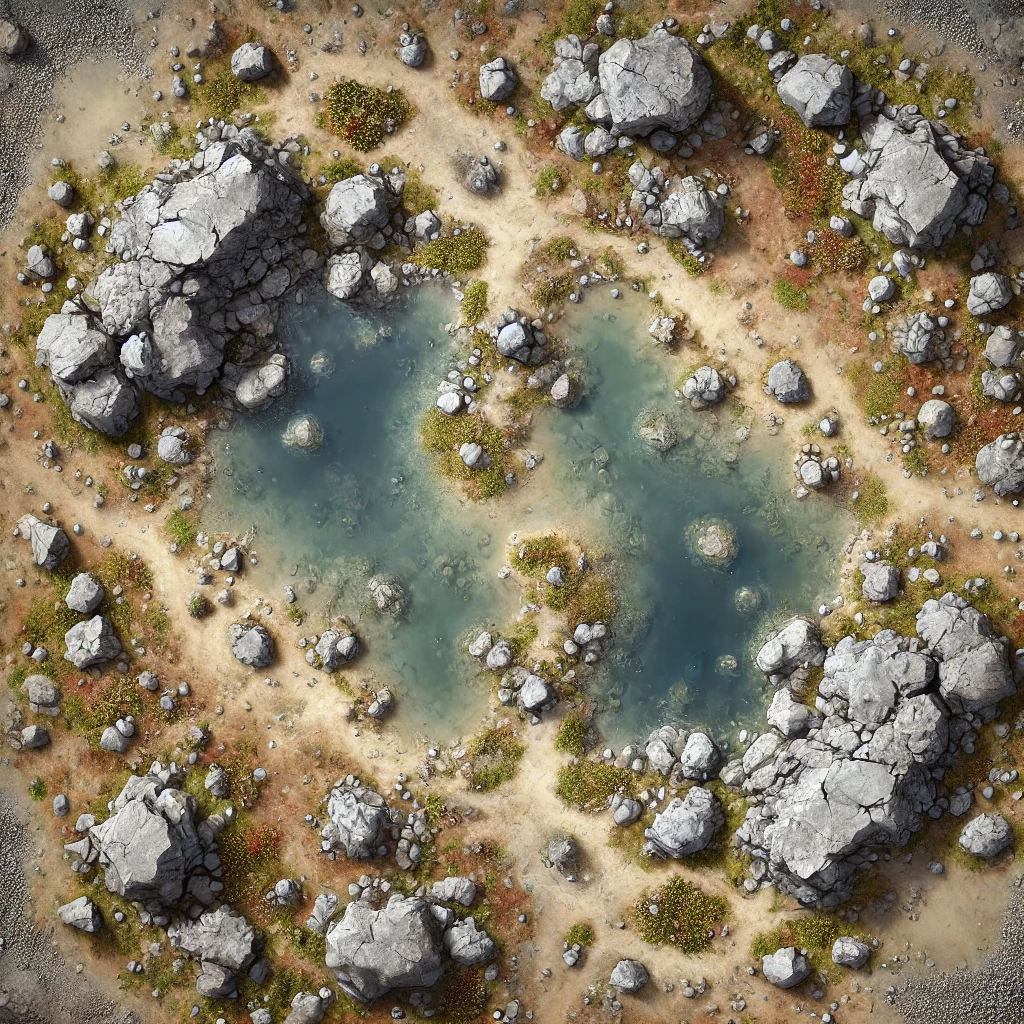
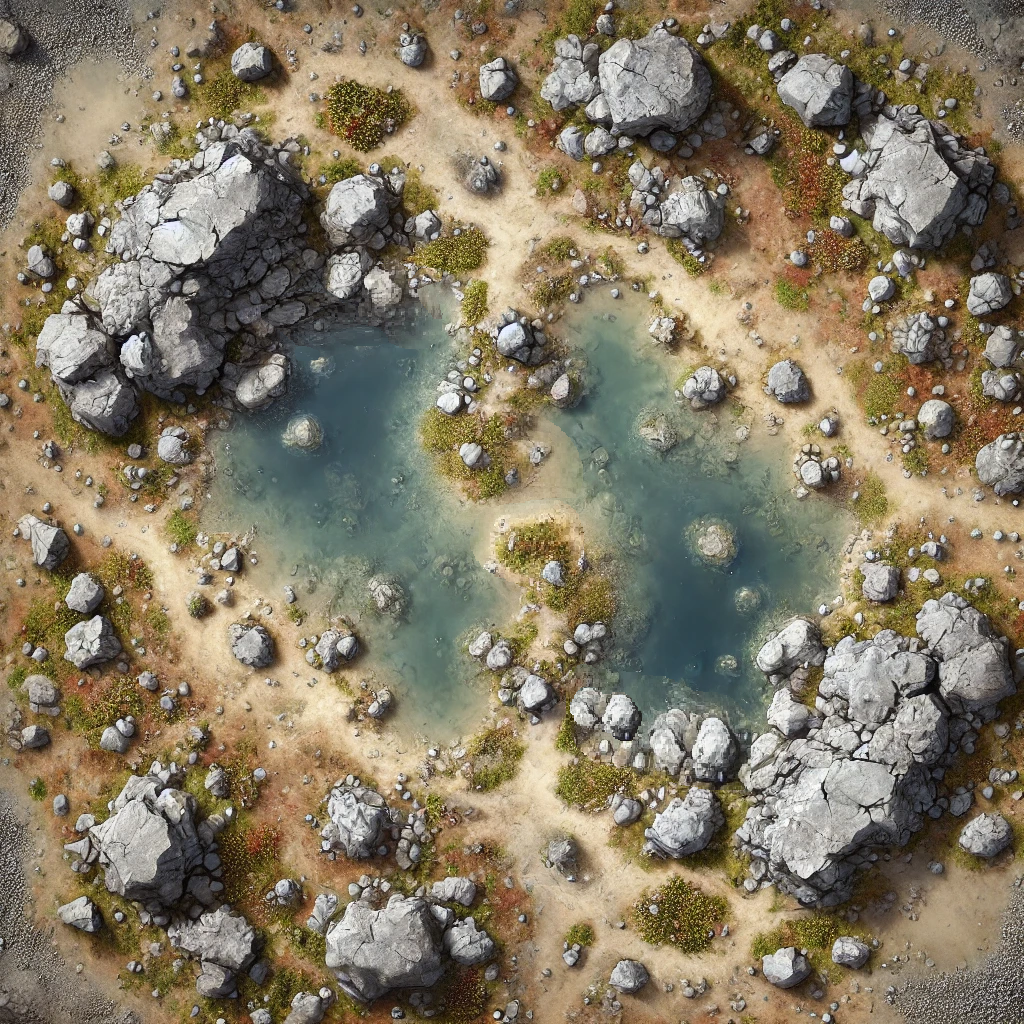
started environment grids for water

Changed region(s): [[0.5312, 0.6562, 0.75, 0.7812], [0.4688, 0.4062, 0.5625, 0.5938], [0.25, 0.25, 0.4375, 0.3438]]

diff --git a/frontend/stratego-game/src/app/stratego-logic/stratego-board.ts b/frontend/stratego-game/src/app/stratego-logic/stratego-board.ts
@@ -24,6 +24,9 @@ export class StrategoBoard {
     public _gameOver: boolean = false;
     private server: WebSocketSubject<any>;
 
+    private environment: (number)[][];
+    public randomSeed: number = 0;
+
     constructor(){
         this.server = webSocket('ws://localhost:3000')
         this.server.subscribe();
@@ -42,6 +45,75 @@ export class StrategoBoard {
             [null, null, null, null, null, null, null, null, null, null, null, null],
         ]
         this._safeSquares = this.findSafeSquares();
+        this.environment = this.getEnvironment();
+    }
+
+    getEnvironment() {
+        // rocky-water-field
+        if (this.randomSeed === 0) {
+            return this.environment = [
+                [0, 0, 0, 0, 0, 0, 0, 0, 0, 0, 0, 0],
+                [0, 0, 0, 0, 0, 0, 0, 0, 0, 0, 0, 0],
+                [0, 0, 0, 0, 0, 0, 0, 0, 0, 0, 0, 0],
+                [0, 0, 0, 0, 0, 0, 0, 0, 0, 0, 0, 0],
+                [0, 0, 0, 1, 1, 0, 0, 1, 0, 0, 0, 0],
+                [0, 0, 0, 1, 1, 0, 0, 1, 1, 0, 0, 0],
+                [0, 0, 0, 1, 1, 1, 0, 1, 1, 1, 0, 0],
+                [0, 0, 0, 0, 1, 1, 0, 1, 1, 0, 0, 0],
+                [0, 0, 0, 0, 0, 0, 0, 0, 0, 0, 0, 0],
+                [0, 0, 0, 0, 0, 0, 0, 0, 0, 0, 0, 0],
+                [0, 0, 0, 0, 0, 0, 0, 0, 0, 0, 0, 0],
+                [0, 0, 0, 0, 0, 0, 0, 0, 0, 0, 0, 0],
+            ]
+        } 
+        else if (this.randomSeed === 1) {
+            return this.environment = [
+                [0, 0, 0, 0, 0, 0, 0, 0, 0, 0, 0, 0],
+                [0, 0, 0, 0, 0, 0, 0, 0, 0, 0, 0, 0],
+                [0, 0, 0, 0, 0, 0, 0, 0, 0, 0, 0, 0],
+                [0, 0, 0, 0, 0, 0, 0, 0, 0, 0, 0, 0],
+                [0, 0, 0, 0, 1, 0, 0, 0, 0, 0, 0, 0],
+                [0, 0, 0, 0, 1, 0, 0, 0, 0, 0, 0, 0],
+                [0, 0, 0, 0, 1, 0, 0, 0, 0, 0, 0, 0],
+                [0, 0, 0, 0, 0, 0, 0, 0, 0, 0, 0, 0],
+                [0, 0, 0, 0, 0, 0, 0, 0, 0, 0, 0, 0],
+                [0, 0, 0, 0, 0, 0, 0, 0, 0, 0, 0, 0],
+                [0, 0, 0, 0, 0, 0, 0, 0, 0, 0, 0, 0],
+                [0, 0, 0, 0, 0, 0, 0, 0, 0, 0, 0, 0],
+            ]
+        }
+        else if (this.randomSeed === 2) {
+            return this.environment = [
+                [0, 0, 0, 0, 0, 0, 0, 0, 0, 0, 0, 0],
+                [0, 0, 0, 0, 0, 0, 0, 0, 0, 0, 0, 0],
+                [0, 0, 0, 0, 0, 0, 0, 0, 0, 0, 0, 0],
+                [0, 0, 0, 0, 0, 0, 0, 0, 0, 0, 0, 0],
+                [0, 0, 0, 0, 1, 0, 0, 0, 0, 0, 0, 0],
+                [0, 0, 0, 0, 1, 0, 0, 0, 0, 0, 0, 0],
+                [0, 0, 0, 0, 1, 0, 0, 0, 0, 0, 0, 0],
+                [0, 0, 0, 0, 0, 0, 0, 0, 0, 0, 0, 0],
+                [0, 0, 0, 0, 0, 0, 0, 0, 0, 0, 0, 0],
+                [0, 0, 0, 0, 0, 0, 0, 0, 0, 0, 0, 0],
+                [0, 0, 0, 0, 0, 0, 0, 0, 0, 0, 0, 0],
+                [0, 0, 0, 0, 0, 0, 0, 0, 0, 0, 0, 0],
+            ]
+        }
+        else {
+            return this.environment = [
+                [0, 0, 0, 0, 0, 0, 0, 0, 0, 0, 0, 0],
+                [0, 0, 0, 0, 0, 0, 0, 0, 0, 0, 0, 0],
+                [0, 0, 0, 0, 0, 0, 0, 0, 0, 0, 0, 0],
+                [0, 0, 0, 0, 0, 0, 0, 0, 0, 0, 0, 0],
+                [0, 0, 0, 0, 1, 0, 0, 0, 0, 0, 0, 0],
+                [0, 0, 0, 0, 1, 0, 0, 0, 0, 0, 0, 0],
+                [0, 0, 0, 0, 1, 0, 0, 0, 0, 0, 0, 0],
+                [0, 0, 0, 0, 0, 0, 0, 0, 0, 0, 0, 0],
+                [0, 0, 0, 0, 0, 0, 0, 0, 0, 0, 0, 0],
+                [0, 0, 0, 0, 0, 0, 0, 0, 0, 0, 0, 0],
+                [0, 0, 0, 0, 0, 0, 0, 0, 0, 0, 0, 0],
+                [0, 0, 0, 0, 0, 0, 0, 0, 0, 0, 0, 0],
+            ]
+        }
     }
 
     async init(): Promise<void> {
@@ -57,7 +129,10 @@ export class StrategoBoard {
                 })
             });
         }
+        console.log(response)
         console.log('server response: ', response.player)
+        console.log('seed', response.randomSeed)
+        
         if (response.player == 1) {
             let pieces = this.generatePieces(Color.Blue);
             let positions = this.randomizePositions(false);
@@ -407,6 +482,7 @@ export class StrategoBoard {
 type ConnectionResponse = {
     gameStarted: boolean;
     player: number;
+    randomSeed: number;
 }
 
 type OpponentData = {

diff --git a/frontend/stratego-game/src/app/modules/stratego-board/stratego-board.component.html b/frontend/stratego-game/src/app/modules/stratego-board/stratego-board.component.html
@@ -1,5 +1,5 @@
 <main>   
-    <div class="game-container"> 
+    <div class="game-container" > 
         <div class="stratego-board" [ngClass]="{'rotated': rotate()}">
                 <div *ngFor="let row of strategoBoardView; let x = index" class="row">
                     <div *ngFor="let piece of row; let y = index" class="square" [ngClass]="{
@@ -8,7 +8,9 @@
                         (click)="move(x, y)"
                     >
                         <div [ngClass]="{'safe-square': isSquareSafeForSelectedPiece(x, y)}"
-                        [ngStyle]="{'background-color': getSafeSquareColor()}"></div>
+                             [ngStyle]="{'background-color': getSafeSquareColor()}"
+                             >
+                            </div>
                              <!-- [ngStyle]="{'background-color': getSafeSquareColor(playerColor)}"
                              >
                         </div> -->

diff --git a/frontend/stratego-game/src/app/modules/stratego-board/stratego-board.component.ts b/frontend/stratego-game/src/app/modules/stratego-board/stratego-board.component.ts
@@ -39,12 +39,22 @@ export class StrategoBoardComponent {
     { name: 'Bomb', icon: '/pieces/bomb-icon.png', attack: 0, defense: 15 },
     { name: 'Flag', icon: '/pieces/redFlag-icon.png', attack: 0, defense: 0 },
   ];
+
+  backgroundImages = [
+    '/battlefields/snowy-water-field.png',
+    '/battlefields/desert-water-field.png',
+    '/battlefields/rocky-water-field.png',
+    '/battlefields/wooded-water-field.png'
+  ];
+  // randomBackground!: string;
   
   constructor() {
     this.init();
   }
 
   async init() {
+    // this.randomBackground = this.backgroundImages[Math.floor(Math.random() * this.backgroundImages.length)];
+
     await this.strategoBoard.init();
     this.strategoBoardView = this.strategoBoard.strategoBoardView;
     let c = this.playerColor == Color.Blue ? FENChar.RedFlag : FENChar.BlueFlag;

diff --git a/backend/game.ts b/backend/game.ts
@@ -3,11 +3,14 @@ import { WebSocket } from "ws";
 export class Game {
     p1: WebSocket;
     p2: WebSocket;
+    battlefieldSeed: number;
 
     constructor(ws1: WebSocket, ws2: WebSocket) {
         this.p1 = ws1;
         this.p2 = ws2;
+        this.battlefieldSeed = Math.floor(Math.random() * 4);
         console.log('game started');
+        console.log(this.battlefieldSeed)
         this.p1.send(JSON.stringify({'gameStarted': true, 'player': 1}));
         this.p2.send(JSON.stringify({'gameStarted': true, 'player': 2}));
         this.gameLoop();

diff --git a/frontend/stratego-game/src/app/modules/stratego-board/stratego-board.component.css b/frontend/stratego-game/src/app/modules/stratego-board/stratego-board.component.css
@@ -54,7 +54,7 @@ main {
     height: 960px;
     background-size: cover;
     background-position: center;
-    background-image: url("/battlefields/snowy-water-field.png");
+    background-image: url("/battlefields/rocky-water-field.png");
     margin-left: 20px;
     margin-top: 10px;
     margin-bottom: 10px;
